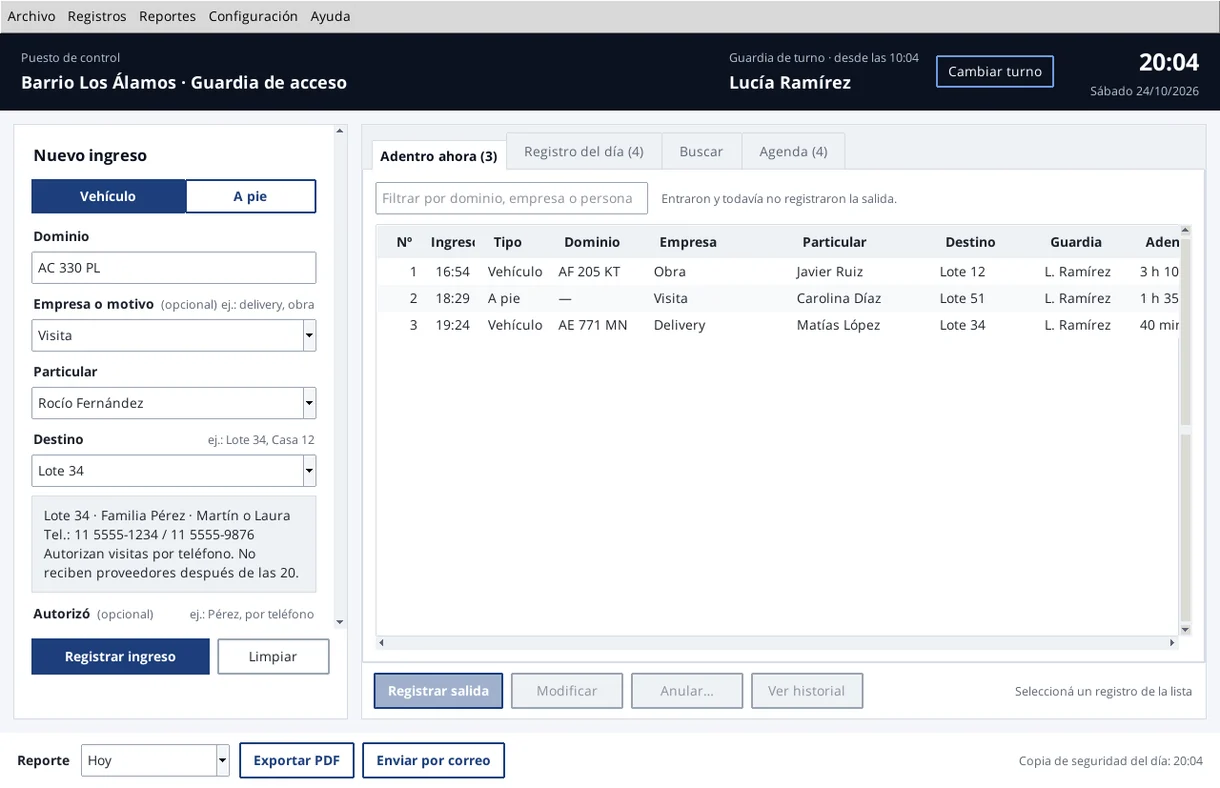
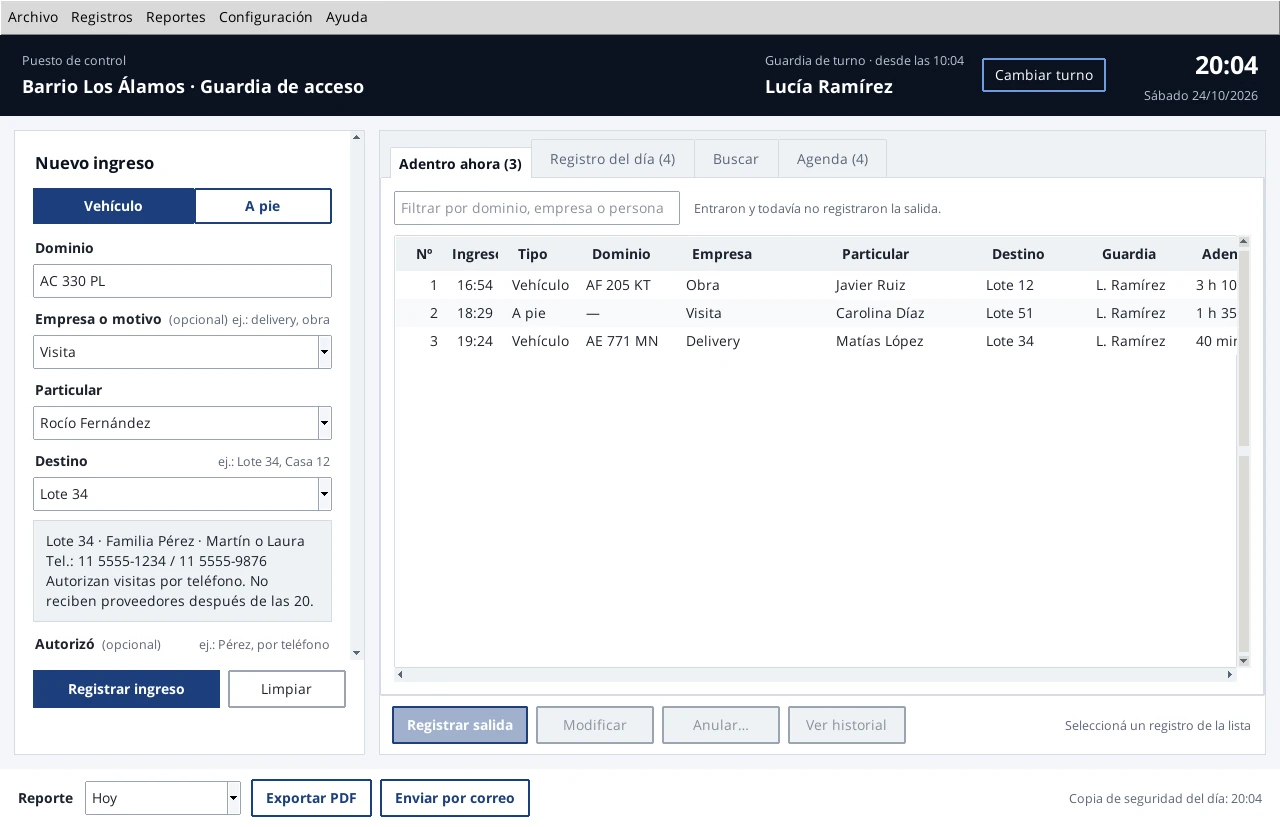
Patente 2.0.0, zoom en capturas y reporte PDF actual

Changed region(s): [[0.1869, 0.2437, 0.218, 0.2741]]

diff --git a/index.html b/index.html
@@ -25,7 +25,7 @@
   <link rel="preconnect" href="https://fonts.googleapis.com" />
   <link rel="preconnect" href="https://fonts.gstatic.com" crossorigin />
   <link href="https://fonts.googleapis.com/css2?family=Barlow+Condensed:wght@500;600;700&family=Open+Sans:wght@400;600&display=swap" rel="stylesheet" />
-  <link rel="stylesheet" href="styles.css?v=3" />
+  <link rel="stylesheet" href="styles.css?v=4" />
 </head>
 <body>
 
@@ -37,9 +37,9 @@
     <p class="hero-caption">Imagen ilustrativa · v1.0</p>
 
     <div class="hero-inner">
-      <p class="plate" aria-label="Versión 2.0">
+      <p class="plate" aria-label="Versión 2.0.0">
         <span class="plate-band">IngresosApp</span>
-        <span class="plate-text">V 2.0</span>
+        <span class="plate-text">V 2.0.0</span>
       </p>
 
       <h1>IngresosApp</h1>
@@ -70,8 +70,10 @@
 
         <article class="moment">
           <figure class="shot">
-            <img src="img/captura-llegada.webp" width="1220" height="788" loading="lazy" decoding="async"
+            <div class="zoom">
+              <img src="img/captura-llegada.webp" width="1280" height="827" loading="lazy" decoding="async"
                  alt="Ventana de IngresosApp con un ingreso en carga: dominio, motivo, persona y destino, y debajo la ficha del lote con los teléfonos de la familia" />
+            </div>
           </figure>
           <div class="moment-text">
             <h3>Cuando llega alguien</h3>
@@ -81,8 +83,10 @@
 
         <article class="moment moment--flip">
           <figure class="shot">
-            <img src="img/captura-turno.webp" width="1220" height="788" loading="lazy" decoding="async"
+            <div class="zoom">
+              <img src="img/captura-turno.webp" width="1220" height="788" loading="lazy" decoding="async"
                  alt="Registro del día en IngresosApp con siete ingresos, sus horarios de salida, la guardia de cada uno y un registro anulado tachado" />
+            </div>
           </figure>
           <div class="moment-text">
             <h3>Durante el turno</h3>
@@ -92,8 +96,10 @@
 
         <article class="moment">
           <figure class="shot shot--dialog">
-            <img src="img/captura-historial.webp" width="642" height="414" loading="lazy" decoding="async"
+            <div class="zoom">
+              <img src="img/captura-historial.webp" width="642" height="414" loading="lazy" decoding="async"
                  alt="Historial de un registro en IngresosApp: el ingreso y una corrección del nombre, con fecha, hora y guardia" />
+            </div>
           </figure>
           <div class="moment-text">
             <h3>Si algo se cargó mal</h3>
@@ -103,8 +109,10 @@
 
         <article class="moment moment--flip">
           <figure class="shot shot--paper">
-            <img src="img/captura-pdf.webp" width="1100" height="521" loading="lazy" decoding="async"
+            <div class="zoom">
+              <img src="img/captura-reporte.webp" width="1400" height="991" loading="lazy" decoding="async"
                  alt="Reporte en PDF de IngresosApp con la tabla de ingresos y salidas del día y el lugar para la firma del encargado" />
+            </div>
           </figure>
           <div class="moment-text">
             <h3>Al cerrar el día</h3>
@@ -249,6 +257,17 @@
       <p class="copyright">&copy; 2027 Lucas Emanuel Santoro</p>
     </div>
   </footer>
+
+  <script>
+    // Zoom de las capturas: al pasar el mouse, se amplía la zona donde está el puntero.
+    document.querySelectorAll(".zoom").forEach((marco) => {
+      marco.addEventListener("mousemove", (e) => {
+        const r = marco.getBoundingClientRect();
+        marco.style.setProperty("--x", ((e.clientX - r.left) / r.width) * 100 + "%");
+        marco.style.setProperty("--y", ((e.clientY - r.top) / r.height) * 100 + "%");
+      });
+    });
+  </script>
 
 </body>
 </html>

diff --git a/styles.css b/styles.css
@@ -157,7 +157,7 @@ code {
   display: inline-flex;
   flex-direction: column;
   align-items: stretch;
-  width: 132px;
+  width: 158px;
   overflow: hidden;
   background: #fff;
   border: 2px solid #11151c;
@@ -314,22 +314,33 @@ code {
   padding: clamp(16px, 3vw, 36px);
 }
 
-.shot img {
-  width: 100%;
-  height: auto;
+/* Marco de cada captura: al pasar el mouse se amplía donde apunta el puntero */
+.zoom {
+  overflow: hidden;
   border-radius: 6px;
   box-shadow: 0 14px 30px -14px rgba(11, 18, 32, 0.45);
 }
 
-.shot--paper img {
-  margin-inline: auto;
+.zoom img {
+  width: 100%;
+  height: auto;
+  transform-origin: var(--x, 50%) var(--y, 50%);
+  transition: transform 0.25s ease;
+}
+
+@media (hover: hover) and (pointer: fine) {
+  .zoom { cursor: zoom-in; }
+  .zoom:hover img { transform: scale(2.2); }
+}
+
+.shot--paper .zoom,
+.shot--dialog .zoom {
   border: 1px solid var(--line);
 }
 
-.shot--dialog img {
+.shot--dialog .zoom {
   max-width: 520px;
   margin-inline: auto;
-  border: 1px solid var(--line);
 }
 
 .moment-text h3 {

diff --git a/README.md b/README.md
@@ -12,7 +12,7 @@ El sitio presenta la aplicación, muestra cómo funciona y ofrece la descarga di
 
 | | |
 |---|---|
-| **Frontend** | HTML5 y CSS3, sin frameworks ni JavaScript (tipografías Barlow Condensed y Open Sans) |
+| **Frontend** | HTML5 y CSS3, sin frameworks; solo unas líneas de JavaScript para el zoom de las capturas (tipografías Barlow Condensed y Open Sans) |
 | **Hosting** | GitHub Pages |
 | **Dominio** | `ingresosapp.com.ar`, registrado en NIC Argentina |
 | **DNS** | Cloudflare (solo DNS, sin proxy) |
